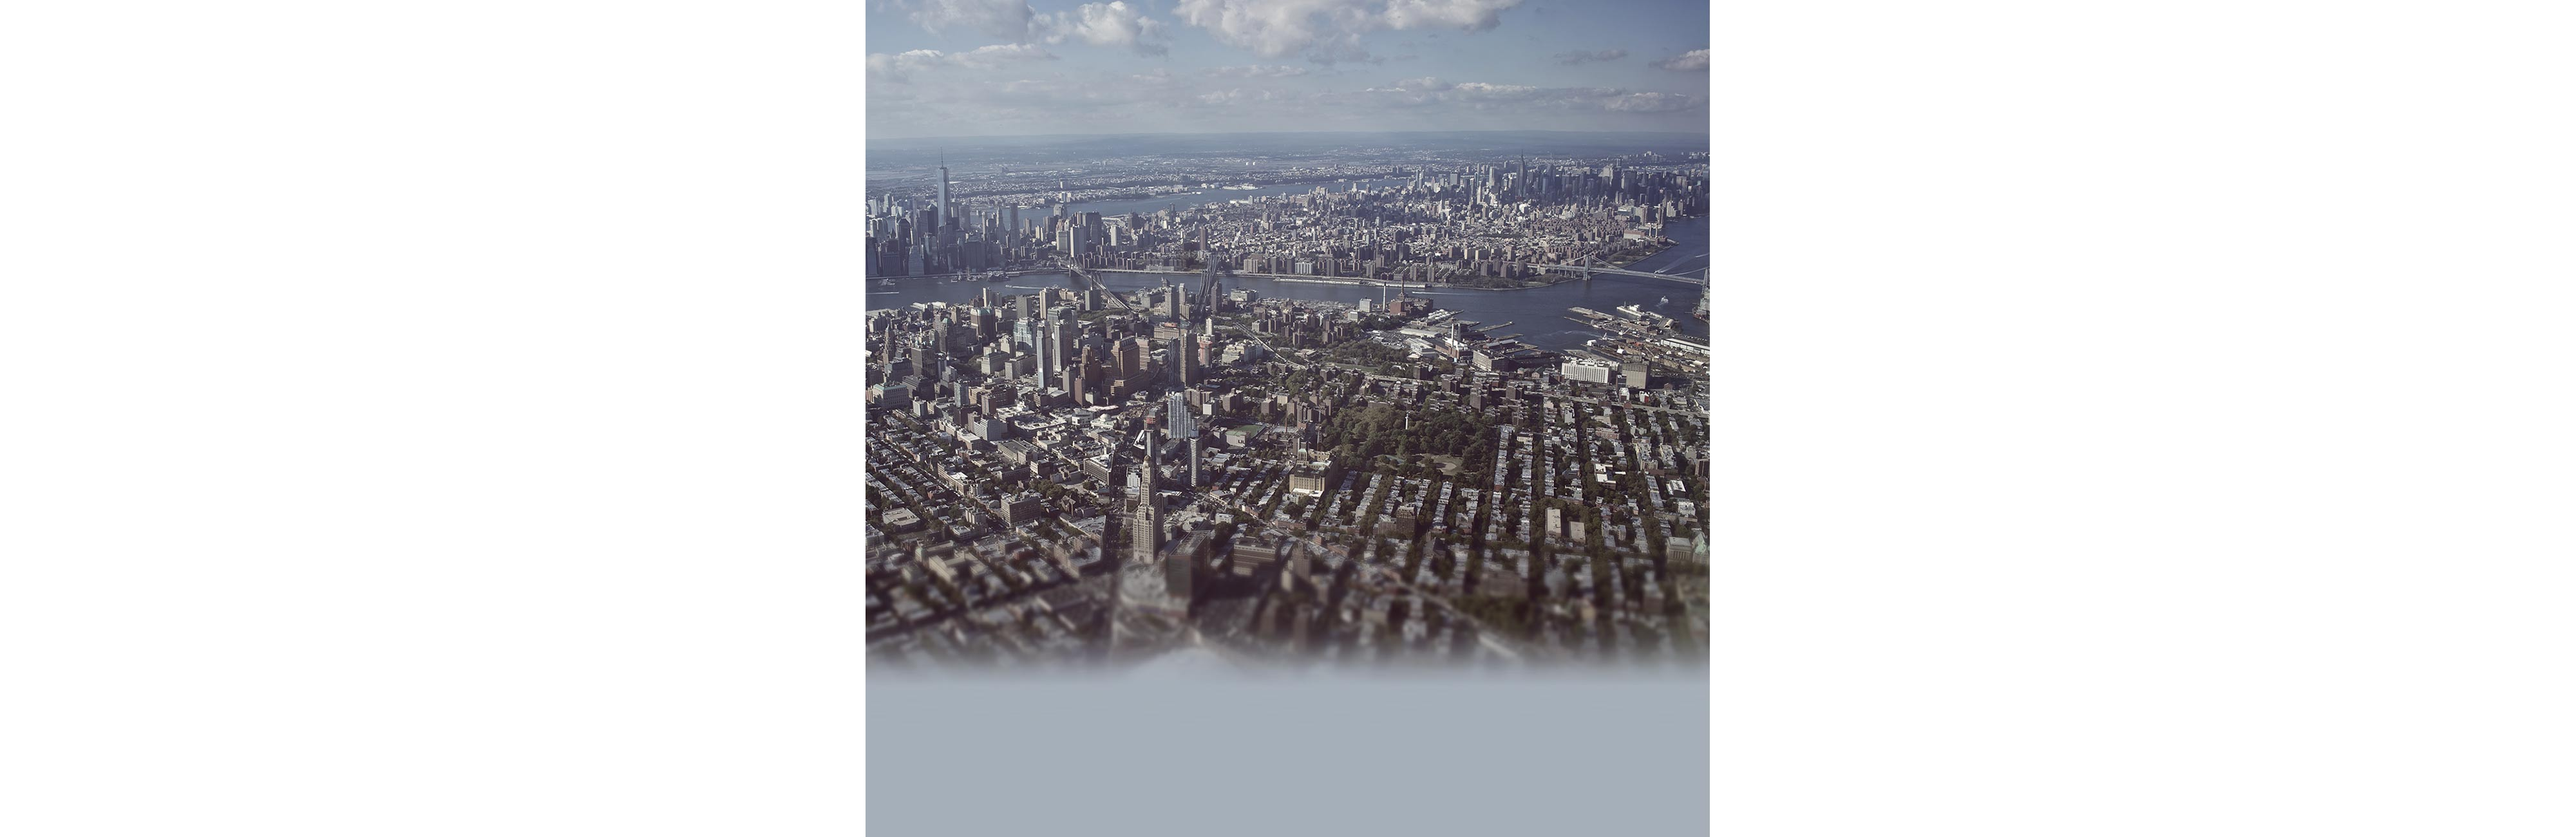
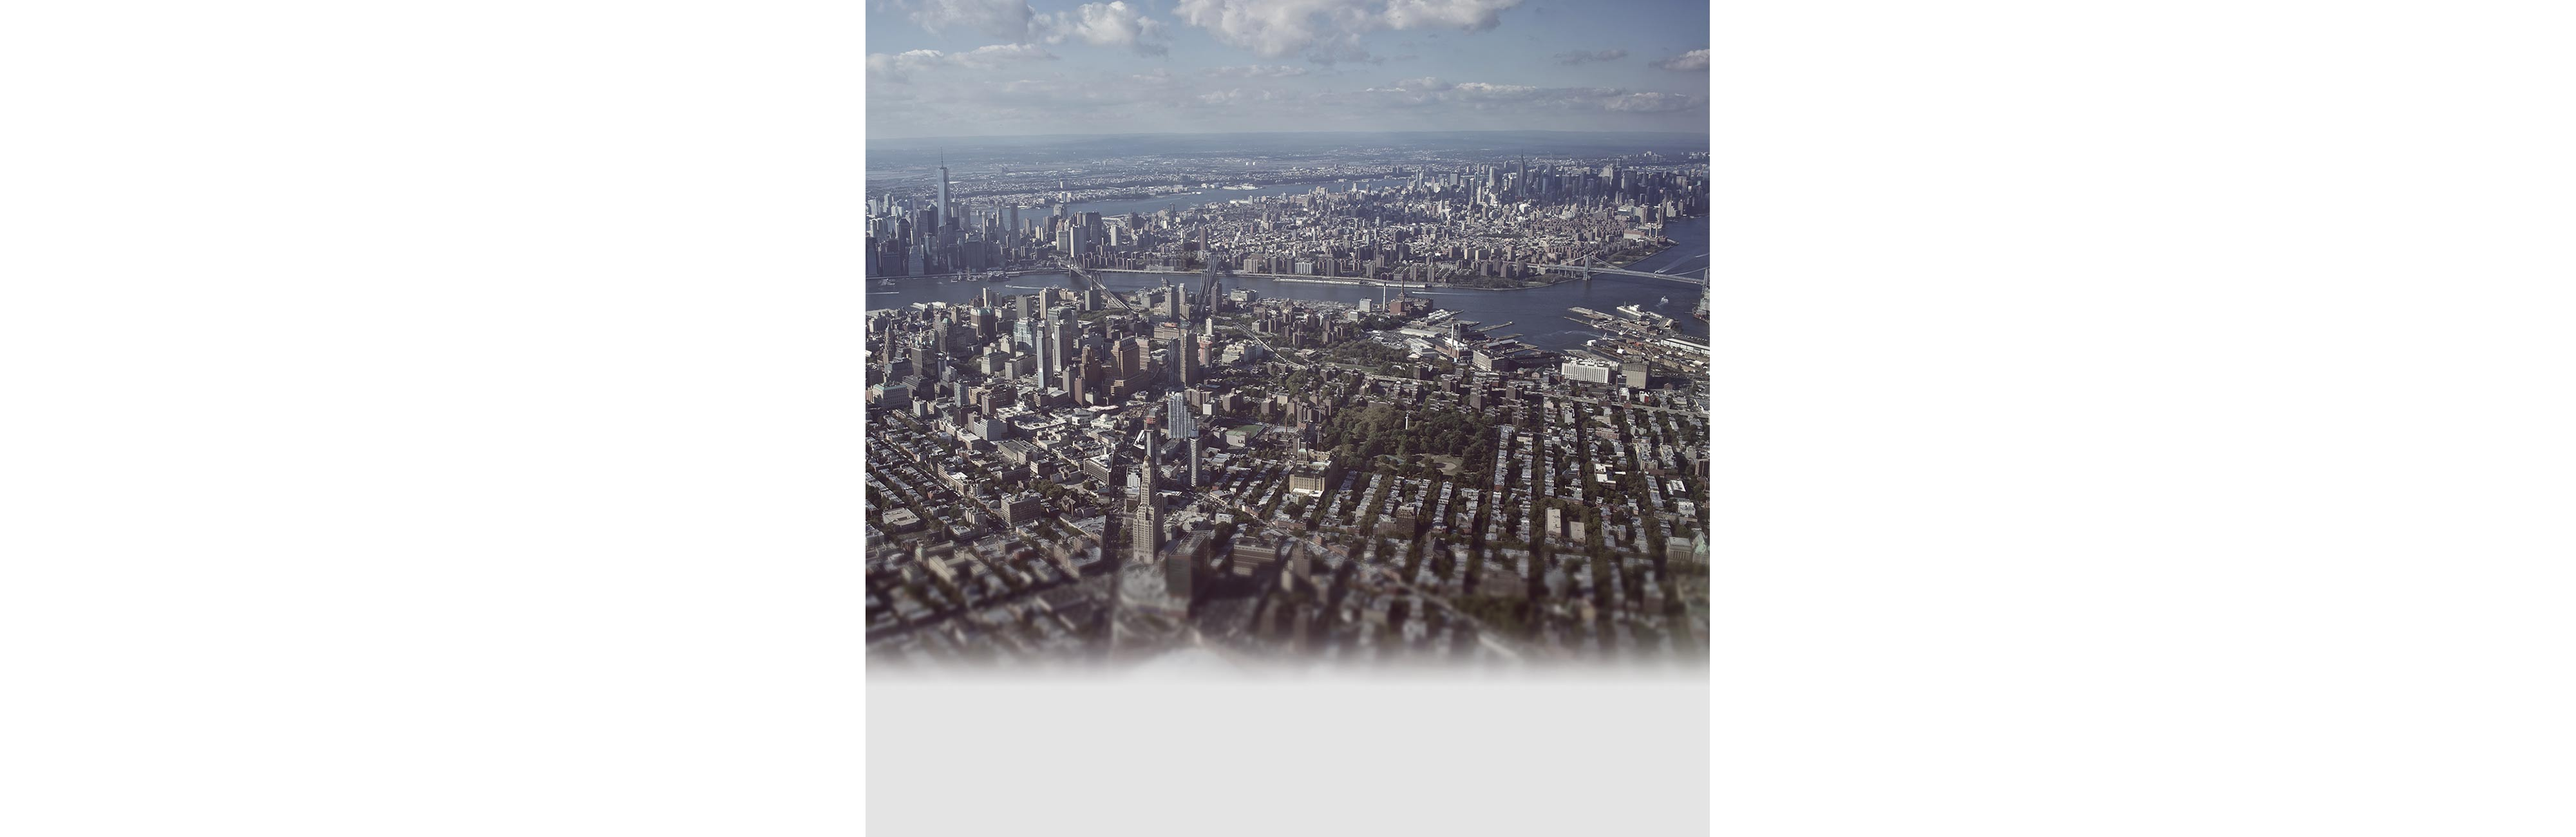
moar

Changed region(s): [[0.3125, 0.7692, 0.6875, 1.0]]

diff --git a/source/assets/stylesheets/_shell.sass b/source/assets/stylesheets/_shell.sass
@@ -1,6 +1,11 @@
 body
   border: 20px solid #fff
-  background: #a6afb8 url(/assets/images/bg/nycblend.jpg) center 20px no-repeat
+  @include background(url("/assets/images/bg/nycblend-narrow.jpg"), url("/assets/images/bg/slice.jpg"))
+  background-position: center 20px, center top
+  background-repeat: no-repeat, repeat-y
+  background-color: #e4e4e4
+  // background: #e4e4e4 url(/assets/images/bg/nycblend.jpg) center 20px no-repeat
+  // background: url(/assets/images/bg/slice.jpg) center top repeat-y
   margin: 0 auto
   // background: #eceef2
   // padding: 0 20px
@@ -12,6 +17,7 @@ body
   background: #fff
   +border-radius(2px)
   overflow: hidden
+  min-height: 800px
 
 section
   overflow: hidden

diff --git a/source/assets/stylesheets/_section.sass b/source/assets/stylesheets/_section.sass
@@ -2,10 +2,10 @@ section
   @include span-columns(12)
   // border-left: 1px solid $line
   // border-right: 1px solid $line
-  table
-    margin: 20px 30px
 section.news, section.about
   border-bottom: 1px solid $line
+section.news
+  padding-bottom: 20px
 
 section.location
   .conference, .boat
@@ -42,3 +42,6 @@ section.conduct
     &:hover
       color: $white
       text-decoration: none
+
+section.brief
+  border-bottom: 1px solid $line

diff --git a/source/assets/stylesheets/_pill.sass b/source/assets/stylesheets/_pill.sass
@@ -1,0 +1,18 @@
+.pill
+  +border-radius(400px)
+  border: 1px solid $gray
+  color: $gray
+  padding: 5px 10px
+  font-size: 14px
+  &:hover
+    border-color: $blue
+  span
+    vertical-align: text-top
+    margin-top: 2px
+    display: inline-block
+
+.pill_primary
+  border-color: $red
+  color: $red
+  &:hover
+

diff --git a/source/assets/stylesheets/sections/_post.sass b/source/assets/stylesheets/sections/_post.sass
@@ -1,0 +1,15 @@
+section.post
+  padding-bottom: 60px
+  h1
+    font-size: 50px
+    line-height: 60px
+  p.meta
+    color: $gray
+    font-size: 14px
+    margin: 0 30px
+  h4
+    font-size: 17px
+
+    font-weight: 600
+
+

diff --git a/source/assets/stylesheets/app.sass b/source/assets/stylesheets/app.sass
@@ -18,7 +18,9 @@
 @import 'news_flash'
 @import 'map'
 @import 'lists'
+@import 'pill'
 
 @import 'sections/previous_news'
 @import 'sections/key_dates'
 @import 'sections/breadcrumbs'
+@import 'sections/post'

diff --git a/source/assets/stylesheets/sections/_key_dates.sass b/source/assets/stylesheets/sections/_key_dates.sass
@@ -2,3 +2,8 @@ section.key_dates
   background-color: $red
   *
     color: $white
+  a
+    text-decoration: underline
+    &:hover
+      color: lighten($red, 30%)
+      text-decoration: none

diff --git a/source/assets/stylesheets/_lists.sass b/source/assets/stylesheets/_lists.sass
@@ -21,3 +21,7 @@ ul.dots
     p
       padding: 4px 0 0 0
       margin: 0 0 0 20px
+
+.tableholder
+  margin: 20px 30px
+  display: block

diff --git a/source/news/2013-07-19-gender-diversity-report.md b/source/news/2013-07-19-gender-diversity-report.md
@@ -14,8 +14,9 @@ learned, and what's next.
 Based on the numbers, it looks like we did substantially better in women
 attendees, proposers, and speakers.
 
+<div class="tableholder">
 <table class="data">
-  <thead>
+  <tbody>
     <tr>
       <td></td>
       <th colspan="3" class="groupend">Attendees</th>
@@ -34,8 +35,7 @@ attendees, proposers, and speakers.
       <th>Women</th>
       <th>%</th>
     </tr>
-  <thead>
-  <tbody>
+
     <tr>
       <th>2011</th>
       <td>169</td>
@@ -75,9 +75,11 @@ attendees, proposers, and speakers.
   </tbody>
 </table>
 
-(Note that for attendees and proposers, counts of women are
+</div>
+
+Note that for attendees and proposers, counts of women are
 fuzzy since we're going by first names. And we seem to have lost our
-2011 proposals, so those numbers are unfortunately missing.)
+2011 proposals, so those numbers are unfortunately missing.
 
 The statistical improvement agrees with our anecdotal feedback: Many
 remarked to us that this year felt noticeably more diverse. We even ran
@@ -116,7 +118,7 @@ cajoled our good friend [Sandi Metz][sandi] into writing a post about
 [how to get over being afraid of public
 speaking][what-are-you-afraid-of].  And we participated in a few Google
 Hangout sessions where people who were interested in proposing talks
-could ask questions and get real answers from some of the organizers. 
+could ask questions and get real answers from some of the organizers.
 
 #### Student scholarships
 
@@ -158,7 +160,7 @@ grateful that Rachel stepped up to the plate.
 
 #### There will be talking
 
-Diversity in tech is a sticky situation: There are no silver bullets 
+Diversity in tech is a sticky situation: There are no silver bullets
 and there are lots of sensitive feelings.
 If you're an organizer who wants to engage with the subject, you will
 spend a lot more time talking.  It's time-consuming to meet with people
